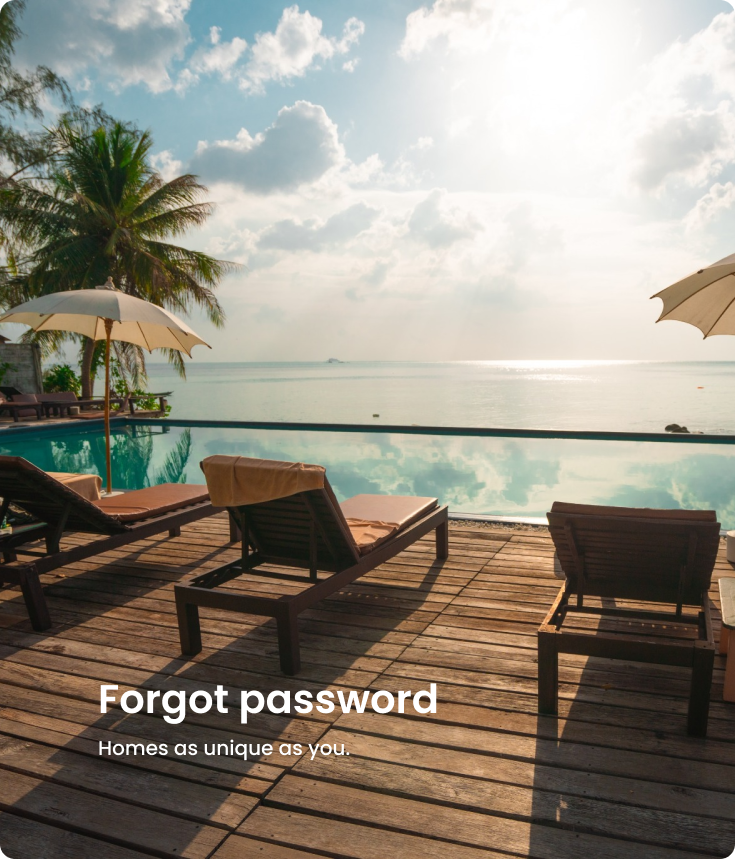
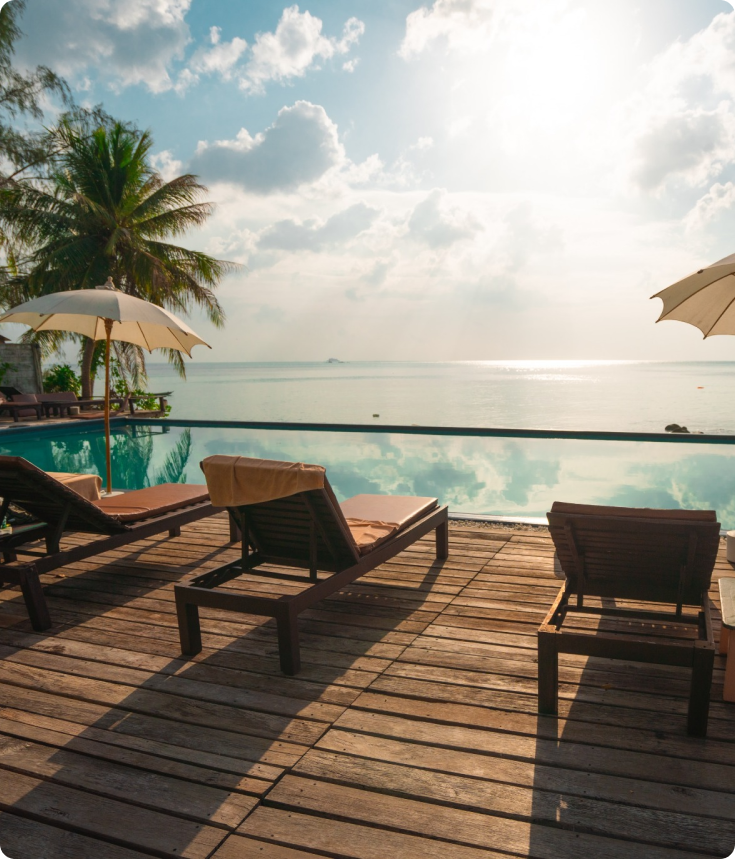
full edits

Changed region(s): [[0.1197, 0.787, 0.5986, 0.8778]]

diff --git a/src/app/auth/components/reset-password/reset-password.component.html b/src/app/auth/components/reset-password/reset-password.component.html
@@ -1,42 +1,56 @@
-<div class="container-fluid">
-    <div class="row">
-        <div class="col-md-6">
-            <div class="header pt-2 ms-3">
-               <h2><span class="style">Stay</span><span>cation.</span></h2>
+<section class="reset-password">
+    <div class="container-fluid">
+        <div class="row">
+            <div class="col-md-6">
+                <div>
+                    <h1 class="logo mb-5 style-font"><span class="main-text ">Stay</span>cation.</h1>
+                </div>
+                <div class="signup-design">
+                    <h3>Reset password</h3>
+                    <p>If you don’t have an account register <br>You can <a class="text-decoration-none text-danger fw-bold" routerLink="/auth/login">Login here!</a></p>
+                </div>
+                <div class="d-flex align-items-center justify-content-center py-5">
+                    <form  [formGroup]="resetPasswordForm" (ngSubmit)="onSubmit(resetPasswordForm)" class="w-75">
+                        <div class="form-row">
+                            <div class="form-group">
+                                <label >Email Address</label>
+                                <input type="email" class="form-control" placeholder="Email" aria-label="email"  formControlName="email">
+                            </div>
+                        </div>
+                        <div class="form-row">
+                            <div class="form-group">
+                                <label >OTP</label>
+                                <input formControlName="seed" type="OTP" class="form-control " placeholder="OTP">
+                            </div>
+                        </div>
+                        <div class="form-row">
+                            <div class="form-group">
+                                <label >Password</label>
+                                <input formControlName="password" type="password" class="form-control " placeholder="Password">
+                            </div>
+                        </div>
+                        <div class="form-row">
+                            <div class="form-group">
+                                <label>Confirm Password</label>
+                                <input formControlName="confirmPassword"  class="form-control position-relative" placeholder="Confirm Password">
+                            </div>
+                        </div>
+                      
+                        
+                        <div class="form-row py-5">
+                            <div >
+                                <button [disabled]="resetPasswordForm.invalid"  class="shadow-sm main w-100">Send</button>
+                            </div>
+                        </div>
+                    </form>
+                </div>
             </div>
-            <div class="content ms-5 pt-5 px-5">
-                <h4>Reset Password</h4>
-                <p>If you already have an account register
-                    <br>you can <a class="text-danger ps-2 fw-bold" [routerLink]="['/auth/login']">Login here !</a>
-                </p>
-            </div>
-            <form [formGroup]="resetPasswordForm" (ngSubmit)="onSubmit(resetPasswordForm)" class="ms-5 py-5">
-            <div class="input  ms-5">
-                <label class="form-label">Email</label>
-                  <input formControlName="email" type="email" class="form-control w-75" placeholder="Please type here ...">
-            </div>
-            <div class="input mt-2 ms-5">
-                <label class="form-label">OTP</label>
-                  <input formControlName="seed" type="OTP" class="form-control w-75" placeholder="Please type here ...">
-            </div>
-            <div class="input mt-2 ms-5">
-                <label class="form-label">Password</label>
-                  <input formControlName="password" type="password" class="form-control w-75" placeholder="Please type here ...">
-            </div>
-            <div class="input mt-2 ms-5">
-                <label class="form-label">Confirm Password</label>
-                  <input formControlName="confirmPassword"  class="form-control w-75 position-relative" placeholder="Please type here ...">
-               
-            </div>
-             <div class="ms-5">
-                <button [disabled]="resetPasswordForm.invalid" class="shadow-lg main mt-4 w-75">Reset</button>
-            </div> 
-            </form>
-        </div>
-        <div class="col-md-6">
-            <div class="picture d-md-flex">
-                <img src="../../../../assets/images/resetPassword2.png" class="w-100 py-1">
+            <div class="col-md-6 image_form border rounded-5 d-none d-md-flex justify-content-end flex-column p-5">
+                <div class="ms-5 text-white">
+                    <h3 class="title_form">Reset Password</h3>
+                    <p class="fw-500 fs-5">Homes as unique as you.</p>
+                </div>
             </div>
         </div>
     </div>
-</div>
+</section>

diff --git a/src/app/auth/components/forgot-password/forgot-password.component.html b/src/app/auth/components/forgot-password/forgot-password.component.html
@@ -1,33 +1,40 @@
-<div class="container-fluid">
-    <div class="row ">
-        <div class="col-md-6">
-            <div class="header pt-2 ms-3">
-               <h3><span class="style">Stay</span><span>cation.</span></h3>
+<section class="forgot-password">
+    <div class="container-fluid">
+        <div class="row">
+            <div class="col-md-6">
+                <div>
+                    <h1 class="logo mb-5 style-font"><span class="main-text ">Stay</span>cation.</h1>
+                </div>
+                <div class="signup-design">
+                    <h3>Forgot password</h3>
+                    <p>If you don’t have an account register <br>You can <a class="text-decoration-none text-danger fw-bold" routerLink="/auth/login">Login here!</a></p>
+                </div>
+                <div class="d-flex align-items-center justify-content-center py-5">
+                    <form  [formGroup]="forgotPasswordForm" (ngSubmit)="onSubmit(forgotPasswordForm)" class="w-75">
+                        
+                        <div class="form-row">
+                            <div class="form-group">
+                                <label class="">Email Address</label>
+                                <input type="email" class="form-control" placeholder="Email" aria-label="email"  formControlName="email">
+                            </div>
+                        </div>
+                        
+                      
+                        
+                        <div class="form-row py-5">
+                            <div >
+                                <button [disabled]="forgotPasswordForm.invalid" class="shadow-sm main w-100">Send Email</button>
+                            </div>
+                        </div>
+                    </form>
+                </div>
             </div>
-            <div class="content ms-5 py-5 px-5">
-                <h4>Forgot Password</h4>
-                <p>If you already have an account register
-                    <br>you can <a class="text-danger ps-2 fw-bold" [routerLink]="['/auth/login']">Login here !</a>
-                </p>
+            <div class="col-md-6 image_form border rounded-5 d-none d-md-flex justify-content-end flex-column p-5">
+                <div class="ms-5 text-white">
+                    <h3 class="title_form">Forgot Password</h3>
+                    <p class="fw-500 fs-5">Homes as unique as you.</p>
+                </div>
             </div>
-            <div class="d-flex justify-content-center align-items-center">
-                <form [formGroup]="forgotPasswordForm" (ngSubmit)="onSubmit(forgotPasswordForm)" class="ms-5 w-100">
-                    <div class="email-input py-5 ms-5">
-                        <label class="form-label">Email</label>
-                          <input formControlName="email" type="email" class="form-control w-75" placeholder="Please type here ...">
-                    </div>
-                    <div class="ms-5">
-                        <button [disabled]="forgotPasswordForm.invalid" class="shadow-sm main w-75">Send mail</button>
-                    </div>
-                    </form>  
-            </div>
-            
-        </div>
-        <div class="col-md-6">
-            <div class="picture d-md-flex">
-                <img src="../../../../assets/images/resetPassword2.png" class="w-100 py-1">
-            </div>
-        
         </div>
     </div>
-</div>
+</section>

diff --git a/src/app/auth/components/login/login.component.html b/src/app/auth/components/login/login.component.html
@@ -1,7 +1,7 @@
 <section class="">
   <div class="container-fluid">
     <div class="row">
-      <div class="col-12 col-lg-6 full_height">
+      <div class="col-12 col-md-6 full_height">
         <div>
           <h1 class="logo mb-5 style-font"><span class="main-text ">Stay</span>cation.</h1>
         </div>
@@ -9,8 +9,8 @@
           <form class="w-75" [formGroup]="loginForm" (ngSubmit)="handleForm(loginForm)">
             <div class="text-start mb-5">
               <h2 class="title_form">Sign in</h2>
-              <p class="mt-4">If you don’t have an account register
-              <p>You can <a class="text-decoration-none fw-bold" routerLink="/auth/register">Register here !</a></p>
+              <p class="mt-4">If you don’t have an account register<br>
+              You can <a class="text-decoration-none fw-bold" routerLink="/auth/register">Register here !</a></p>
             </div>
 
             <div class="form-item mt-3">
@@ -58,7 +58,7 @@
               <a class=" text-decoration-none" routerLink="/auth/forgot-password">Forgot Password ?</a>
             </div>
             <div class="mt-5">
-              <button type="submit" class=" btn btn-info w-100 py-1 mt-2 bg-main text-white fw-500 fs-3"
+              <button type="submit" class="btn btn-primary w-100 py-2"
                 [disabled]="loginForm.invalid">Sign in
                 <span *ngIf="isLoading"><i class="fas fa-spin fa-spinner text-white"></i></span>
               </button>

diff --git a/src/app/auth/components/forgot-password/forgot-password.component.scss b/src/app/auth/components/forgot-password/forgot-password.component.scss
@@ -1,7 +1,38 @@
-@import "../../../../assets/styles/abstracts/forgotPassword";
-.image_form {
-  background-image: url(../../../../assets/images/login.png);
-  background-repeat:no-repeat ;
-  background-size: cover;
-  background-position: center center;
+@import "../../../../assets/styles/layout";
+.show-password{
+    position: absolute;
+    right: 5px;
+    bottom: 0;
+    transform: translate(-25%, -25%);
+  }
+
+  label {
+    font-weight: 500;
+  }
+
+.forgot-password {
+    .logo {
+        span {
+            color: $text-main;
+        }
+    }
+    .signup-design {
+        margin-left: 83px;
+    }
+    .image_form {
+        background-image: url("../../../../assets/images/ForgotPassword.png");
+        background-repeat: no-repeat;
+        background-size: cover;
+        background-position: center center;
+    }
+    .row {
+        height: 100vh;
+        padding: 20px;
+    }
+    .title_form {
+        font-weight: 500;
+        font-size: 38px;
+        line-height: 45px;
+    }
+
 }

diff --git a/src/app/auth/components/reset-password/reset-password.component.scss b/src/app/auth/components/reset-password/reset-password.component.scss
@@ -1,7 +1,39 @@
-@import "../../../../assets/styles/abstracts/forgotPassword";
+@import "../../../../assets/styles/layout";
 .show-password{
     position: absolute;
-    left: 50px;
-    top:70%;
-   // transform: translateY(-50%);
+    right: 5px;
+    bottom: 0;
+    transform: translate(-25%, -25%);
   }
+
+
+  label {
+    font-weight: 500;
+  }
+  
+.reset-password {
+    .logo {
+        span {
+            color: $text-main;
+        }
+    }
+    .signup-design {
+        margin-left: 83px;
+    }
+    .image_form {
+        background-image: url("../../../../assets/images/ForgotPassword.png");
+        background-repeat: no-repeat;
+        background-size: cover;
+        background-position: center center;
+    }
+    .row {
+        height: 100vh;
+        padding: 20px;
+    }
+    .title_form {
+        font-weight: 500;
+        font-size: 38px;
+        line-height: 45px;
+    }
+
+}

diff --git a/src/app/auth/components/register/register.component.html b/src/app/auth/components/register/register.component.html
@@ -59,7 +59,7 @@
                         </div>
                         <div class="form-row mb-2">
                             <div class="form-group position-relative">
-                                <label class="">Confirm Password</label>
+                                <label >Confirm Password</label>
                                 <input [type]="hideConfirmPass ? 'password' : 'text'" class="form-control " placeholder="Confirm Password" aria-label="confirm-password" formControlName="confirmPassword">
                                 <a class="show-password" (click)="this.hideConfirmPass= !this.hideConfirmPass">
                                     <i class="fa-solid" [class]="hideConfirmPass?'fa-eye-slash':'fa-eye'"></i>

diff --git a/src/assets/styles/abstracts/_forgotPassword.scss b/src/assets/styles/abstracts/_forgotPassword.scss
@@ -8,15 +8,7 @@
 input{
     background-color: #F5F6F8 !important;
 }
-.header{
-    font-family: Poppins;
-    font-weight: 500;
-    font-size: 26px;
-    line-height: 39px;
-    .style{
-        color:#3252DF;
-    }
-}
+
 .picture img{
     //width: 735px;
     height: 700px;

diff --git a/src/app/auth/components/login/login.component.scss b/src/app/auth/components/login/login.component.scss
@@ -38,12 +38,9 @@
   line-height: 20px;
 }
 
-p {
-  font-size: 20px;
-}
 
 label {
-  font-size: 20px;
+  
   font-weight: 500;
 }
 

diff --git a/src/app/auth/components/register/register.component.scss b/src/app/auth/components/register/register.component.scss
@@ -34,6 +34,9 @@
     }
 
 }
+label {
+    font-weight: 500;
+  }
 .label_custom-style {
     width: 100px;
     height: 100px;
